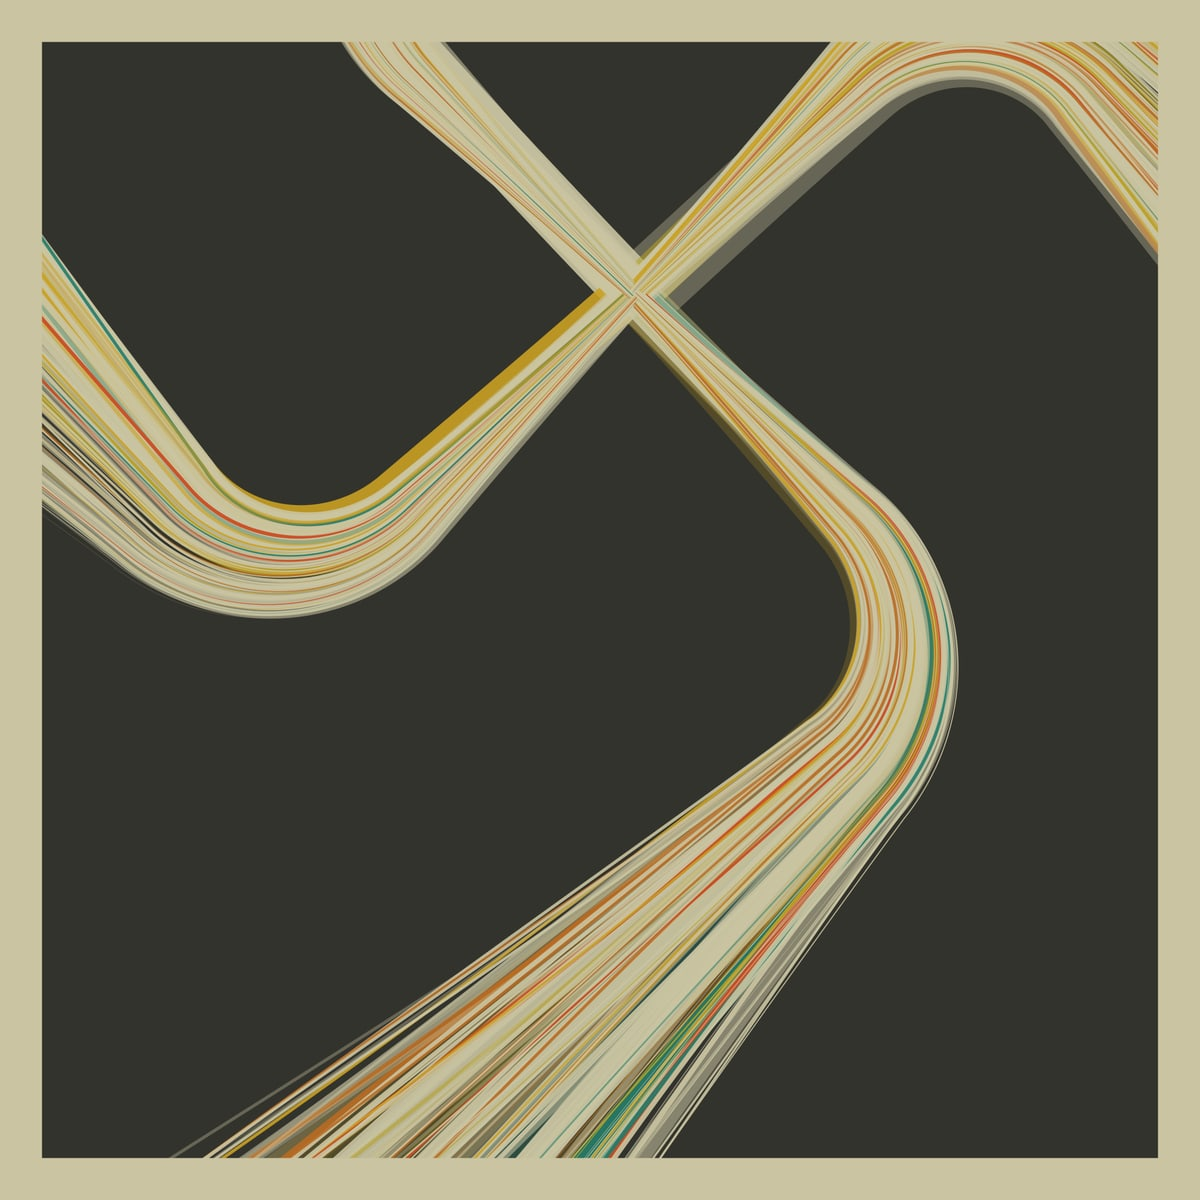
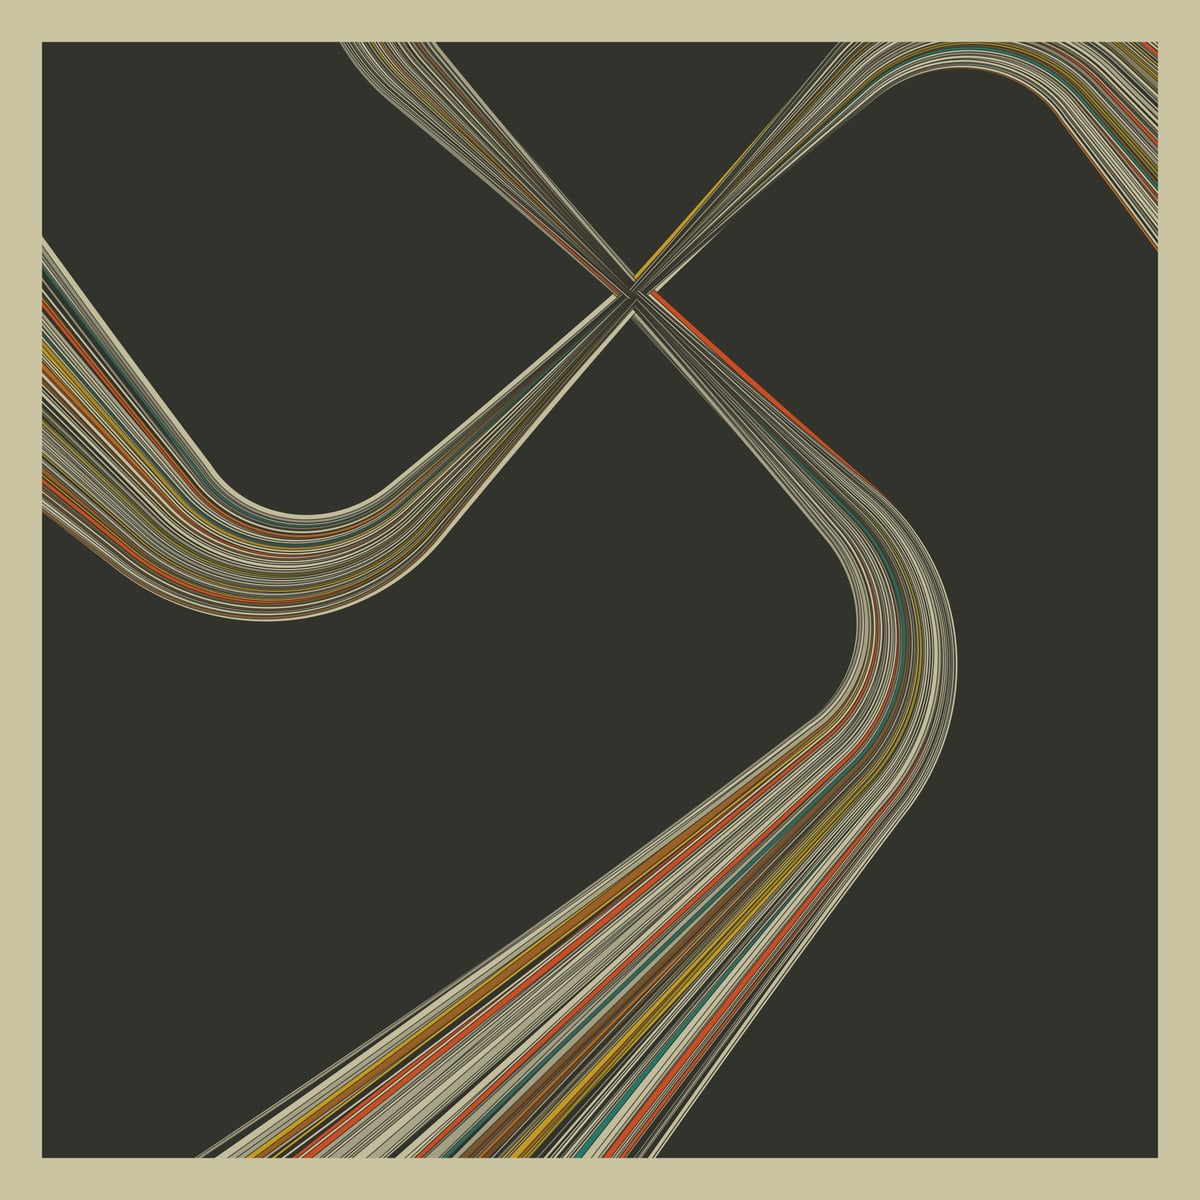
Echo fragments round five: distinct bundle lines, centre-heavy bubbles, negative-space cross
A: fewer, keylined lines with less sway and a higher opacity floor.
C: reverse the size law so bubbles aggregate large at the centre.
G: the cross becomes a feathered void no mark enters, cropped close;
swirls mix flow-field strokes with dotted bubble-chamber spiral tracks.
Drop F.

Claude-Session: https://claude.ai/code/session_01SD2JjdLN4H7LaTYECa3YfT

Changed region(s): [[0.0308, 0.0308, 0.9867, 0.9867]]

diff --git a/art/gart/src/main/kotlin/tgs/echo/FlowPieces.kt b/art/gart/src/main/kotlin/tgs/echo/FlowPieces.kt
@@ -4,9 +4,11 @@ import dev.oblac.gart.Dimension
 import dev.oblac.gart.color.RetroColors
 import dev.oblac.gart.gfx.drawBorder
 import org.jetbrains.skia.Canvas
+import org.jetbrains.skia.ClipMode
 import org.jetbrains.skia.PaintStrokeCap
 import org.jetbrains.skia.Path
 import org.jetbrains.skia.PathBuilder
+import tgs.fill
 import tgs.stroke
 import tgs.withAlpha
 import kotlin.math.PI
@@ -21,6 +23,7 @@ import kotlin.random.Random
 private val ink = RetroColors.black01
 private val paper = RetroColors.white01
 private val red = RetroColors.red01
+private val sage = 0xFF8A9A6B.toInt()
 
 private fun mix(a: Int, b: Int, t: Float): Int {
     val u = t.coerceIn(0f, 1f)
@@ -28,46 +31,82 @@ private fun mix(a: Int, b: Int, t: Float): Int {
     return (0xFF shl 24) or ch(16) or ch(8) or ch(0)
 }
 
+/** Each law's colour family; t picks a point along it. */
+private fun lawColor(law: Law, t: Float) = when (law) {
+    Law.EXPONENTIAL -> mix(RetroColors.orange01, red, t)
+    Law.HYPERBOLIC -> mix(RetroColors.teal01, RetroColors.blue01, t)
+    Law.PARABOLIC -> mix(RetroColors.yellow01, RetroColors.amber01, t)
+    Law.LOGISTIC -> mix(sage, paper, t)
+}
+
 /**
- * G · FOUR LAWS, FLOWFORCE — after gart's flowforce/flowforce3. A white hooked cross,
- * turned 45° and set off-centre, made of a bundle of fine white lines. Round it, a flow
- * field (swirl about the cross's centre, plus a push away from its arms) carries a few
- * thousand swirls. Each swirl's own turn grows along its length by one of FOUR laws,
- * and the law sets its colour family:
- *   EXPONENTIAL  orange → vermilion   curls ever tighter
- *   HYPERBOLIC   teal → blue          runs nearly straight, then whips into a knot
- *   PARABOLIC    mustard → amber      bends steadily more
- *   LOGISTIC     sage → cream         turns, then straightens out at its ceiling
- * Width and opacity are drawn from halving-odds (geometric) distributions: many fine
- * faint swirls, a few broad bright ones.
+ * G · FOUR LAWS, FLOWFORCE — after gart's flowforce/flowforce3, crossed with a bubble
+ * chamber photograph. A hooked cross, turned 45°, is never drawn: it is the NEGATIVE
+ * SPACE that no line enters. The crop is close and off-centre, so the crossing and parts
+ * of the arms are in frame but not all four hooks — the figure is implied by absence.
+ *
+ * Two kinds of mark fill the rest, each bending by a curvature that grows along its
+ * length under one of four laws (EXPONENTIAL, HYPERBOLIC, PARABOLIC, LOGISTIC), which
+ * also sets its colour family:
+ *  - flow swirls: long continuous strokes carried by a field that circles the cross and
+ *    slides along its edges, so the empty arms are outlined by the current;
+ *  - bubble-chamber tracks: dotted trails from a vertex, often in pairs that curl in
+ *    opposite senses, tightening into spirals as their curvature runs away — the
+ *    signature of a charged particle losing energy.
+ * Widths, dot sizes and opacities are drawn from halving-odds (geometric) distributions.
  */
 fun lawsField(c: Canvas, d: Dimension) {
     val w = d.w.toFloat()
     val sc = w / 2048f
     c.clear(ink)
-    val ox = w * 0.45f; val oy = w * 0.54f
-    val arms = fourArms(hookArm(run = w * 0.13f, bend = w * 0.08f, tail = w * 0.22f, n = 500))
+    // the figure is large and off-centre: crossing in frame, hooks mostly outside it
+    val ox = w * 0.40f; val oy = w * 0.58f
+    val arms = fourArms(hookArm(run = w * 0.30f, bend = w * 0.18f, tail = w * 0.60f, n = 700))
         .map { it.rotated(45f) }
         .map { l -> Line(FloatArray(l.n) { l.x[it] + ox }, FloatArray(l.n) { l.y[it] + oy }, l.tx, l.ty, l.s) }
 
-    // the field on a coarse grid, sampled bilinearly
+    // the void: a band along each arm, widening a little toward the tips. Only its core
+    // (CORE of the width) is a hard clip; marks stop short of the full band at a jittered
+    // distance, so the edge is feathered by the marks themselves, not cut.
+    fun halfBand(s: Float) = w * (0.034f + 0.022f * s)
+    val CORE = 0.62f
+    val voidPath = PathBuilder().apply {
+        for (a in arms) {
+            for (k in 0 until a.n) {
+                val hb = halfBand(a.s[k]) * CORE
+                val lx = a.x[k] + a.ty[k] * hb; val ly = a.y[k] - a.tx[k] * hb
+                if (k == 0) moveTo(lx, ly) else lineTo(lx, ly)
+            }
+            for (k in a.n - 1 downTo 0) {
+                val hb = halfBand(a.s[k]) * CORE
+                lineTo(a.x[k] - a.ty[k] * hb, a.y[k] + a.tx[k] * hb)
+            }
+            closePath()
+        }
+    }.detach()
+
+    // the field on a coarse grid: swirl about the centre, sliding along the arms' edges
     val G = 192; val gs = w / (G - 1)
     val fxA = FloatArray(G * G); val fyA = FloatArray(G * G)
+    val dA = FloatArray(G * G); val sA = FloatArray(G * G)
     for (gj in 0 until G) for (gi in 0 until G) {
         val px = gi * gs; val py = gj * gs
-        var best = Float.MAX_VALUE; var nx = 0f; var ny = 0f
+        var best = Float.MAX_VALUE; var nx = 0f; var ny = 0f; var tx = 0f; var ty = 0f
         for (a in arms) for (k in 0 until a.n step 2) {
             val dx = px - a.x[k]; val dy = py - a.y[k]
             val dd = dx * dx + dy * dy
-            if (dd < best) { best = dd; nx = dx; ny = dy }
+            if (dd < best) { best = dd; nx = dx; ny = dy; tx = a.tx[k]; ty = a.ty[k]; sA[gj * G + gi] = a.s[k] }
         }
         val dist = sqrt(best).coerceAtLeast(1f); nx /= dist; ny /= dist
-        val push = exp(-dist / (w * 0.035f))
+        dA[gj * G + gi] = dist
+        val edge = exp(-dist / (w * 0.06f))
         val rx = px - ox; val ry = py - oy; val r = hypot(rx, ry).coerceAtLeast(1f)
-        val swx = -ry / r; val swy = rx / r                      // swirl, the hooks' hand
+        val swx = -ry / r; val swy = rx / r
         val wx = sin(py * 0.004f / sc) * 0.25f; val wy = cos(px * 0.0032f / sc) * 0.25f
-        var vx = swx + rx / r * 0.25f + nx * push * 1.6f + wx
-        var vy = swy + ry / r * 0.25f + ny * push * 1.6f + wy
+        // near an arm: run along it (sign chosen to agree with the swirl) and lean outward
+        val sgn = if (tx * swx + ty * swy >= 0f) 1f else -1f
+        var vx = (swx + rx / r * 0.2f + wx) * (1 - edge) + (tx * sgn * 1.4f + nx * 0.5f) * edge
+        var vy = (swy + ry / r * 0.2f + wy) * (1 - edge) + (ty * sgn * 1.4f + ny * 0.5f) * edge
         val m = hypot(vx, vy).coerceAtLeast(1e-4f); vx /= m; vy /= m
         fxA[gj * G + gi] = vx; fyA[gj * G + gi] = vy
     }
@@ -79,65 +118,77 @@ fun lawsField(c: Canvas, d: Dimension) {
         return atan2(lerp2(fyA), lerp2(fxA))
     }
 
+    /** how far inside the feathered edge a point is: < 0 means "in the void". */
+    fun clearance(x: Float, y: Float, jitter: Float): Float {
+        val gi = (x / gs + 0.5f).toInt().coerceIn(0, G - 1); val gj = (y / gs + 0.5f).toInt().coerceIn(0, G - 1)
+        return dA[gj * G + gi] - halfBand(sA[gj * G + gi]) * jitter
+    }
+
     val rng = Random(1960)
     fun geo(max: Int): Int { var l = 0; while (l < max && rng.nextFloat() < 0.5f) l++; return l }
+    fun lawK(law: Law) = when (law) { Law.EXPONENTIAL -> 4f; Law.HYPERBOLIC -> 6f; Law.PARABOLIC -> 4f; Law.LOGISTIC -> 10f }
+
+    c.save()
+    c.clipPath(voidPath, ClipMode.DIFFERENCE, true)
+
+    // 1 · flow swirls
     class Swirl(val path: Path, val width: Float, val color: Int)
     val swirls = ArrayList<Swirl>()
-    val sage = 0xFF8A9A6B.toInt()
-    repeat(4200) {
+    repeat(3400) {
         var x = rng.nextFloat() * w; var y = rng.nextFloat() * w
         val law = Law.entries[rng.nextInt(4)]
-        val dir = if (rng.nextFloat() < 0.8f) 1f else -1f        // mostly with the hooks' hand
-        val tpos = rng.nextFloat()
-        val maxTurn: Float; val k: Float; val col: Int
-        when (law) {
-            Law.EXPONENTIAL -> { maxTurn = 4.5f * PI.toFloat(); k = 4f; col = mix(RetroColors.orange01, red, tpos) }
-            Law.HYPERBOLIC -> { maxTurn = 5.0f * PI.toFloat(); k = 6f; col = mix(RetroColors.teal01, RetroColors.blue01, tpos) }
-            Law.PARABOLIC -> { maxTurn = 2.5f * PI.toFloat(); k = 4f; col = mix(RetroColors.yellow01, RetroColors.amber01, tpos) }
-            Law.LOGISTIC -> { maxTurn = 1.6f * PI.toFloat(); k = 10f; col = mix(sage, paper, tpos) }
-        }
-        val steps = 160 + rng.nextInt(360)
-        val step = 2.4f * sc
+        val dir = if (rng.nextFloat() < 0.8f) 1f else -1f
+        val maxTurn = when (law) { Law.EXPONENTIAL -> 4.5f; Law.HYPERBOLIC -> 5f; Law.PARABOLIC -> 2.5f; Law.LOGISTIC -> 1.6f } * PI.toFloat()
+        val steps = 160 + rng.nextInt(360); val step = 2.4f * sc
+        val jit = 0.75f + rng.nextFloat() * 0.45f              // this swirl's stopping distance
+        if (clearance(x, y, jit) < 0f) return@repeat
         val pb = PathBuilder().moveTo(x, y)
         for (i in 1..steps) {
-            val th = angle(x, y) + dir * maxTurn * law.f(i / steps.toFloat(), k) * 0.6f
+            val th = angle(x, y) + dir * maxTurn * law.f(i / steps.toFloat(), lawK(law)) * 0.5f
             x += cos(th) * step; y += sin(th) * step
             if (x < -40 || y < -40 || x > w + 40 || y > w + 40) break
+            if (clearance(x, y, jit) < 0f) break               // it never enters the void
             pb.lineTo(x, y)
         }
-        val lvl = geo(5)
-        val width = 0.8f * sc * (1 shl lvl)                         // ×2 per class, each half as common
-        val alpha = (0.95f * Math.pow(0.6, geo(3).toDouble()).toFloat()) / (1f + lvl * 0.25f)
-        swirls += Swirl(pb.detach(), width, withAlpha(col, alpha))
+        val lvl = geo(4)
+        val alpha = (0.9f * Math.pow(0.6, geo(3).toDouble()).toFloat()) / (1f + lvl * 0.3f)
+        swirls += Swirl(pb.detach(), 0.8f * sc * (1 shl lvl), withAlpha(lawColor(law, rng.nextFloat()), alpha))
     }
-    swirls.sortByDescending { it.width }                            // broad washes first, hairlines on top
+    swirls.sortByDescending { it.width }
     for (s in swirls) c.drawPath(s.path, stroke(s.color, s.width).apply { strokeCap = PaintStrokeCap.ROUND })
 
-    // the white cross: a solid paper band along each arm, widening slightly toward the
-    // tips, then combed with fine lines (the gentle bundle) so it keeps the flow's grain
-    for (a in arms) {
-        val left = PathBuilder(); val right = ArrayList<FloatArray>()
-        for (kk in 0 until a.n) {
-            val hb = w * (0.022f + 0.022f * a.s[kk]) * 0.5f
-            val lx = a.x[kk] + a.ty[kk] * hb; val ly = a.y[kk] - a.tx[kk] * hb
-            if (kk == 0) left.moveTo(lx, ly) else left.lineTo(lx, ly)
-            right += floatArrayOf(a.x[kk] - a.ty[kk] * hb, a.y[kk] + a.tx[kk] * hb)
+    // 2 · bubble-chamber tracks: dotted, curling ever tighter, often in opposite pairs
+    repeat(260) {
+        val vx = rng.nextFloat() * w; val vy = rng.nextFloat() * w
+        val prongs = if (rng.nextFloat() < 0.55f) 2 else 1
+        val th0 = rng.nextFloat() * 2 * PI.toFloat()
+        val law = Law.entries[rng.nextInt(4)]
+        val dotR = 0.9f * sc * Math.pow(1.6, geo(3).toDouble()).toFloat()
+        val alpha = 0.95f * Math.pow(0.7, geo(2).toDouble()).toFloat()
+        val col = withAlpha(lawColor(law, rng.nextFloat()), alpha)
+        val len = (500 + rng.nextInt(1400)) * sc               // path length, px
+        val kEnd = 1f / ((3f + rng.nextFloat() * 6f) * sc)     // final curvature: a few px radius
+        for (p in 0 until prongs) {
+            var x = vx; var y = vy
+            var th = th0 + if (p == 1) (0.15f + rng.nextFloat() * 0.3f) else 0f
+            val sense = if (p == 0) 1f else -1f
+            val step = 1.0f * sc
+            val n = (len / step).toInt()
+            var since = 0f
+            for (i in 0 until n) {
+                val kap = 1f / (w * 0.6f) + kEnd * law.f(i / n.toFloat(), lawK(law))
+                th += sense * kap * step
+                x += cos(th) * step; y += sin(th) * step
+                since += step
+                if (since >= dotR * 2.6f) {
+                    // dots fade out over the feathered edge instead of stopping at a line
+                    val cl = clearance(x, y, 1f) / (halfBand(0.5f) * 0.4f)
+                    if (cl > 0f || rng.nextFloat() < 1f + cl) c.drawCircle(x, y, dotR, fill(col))
+                    since = 0f
+                }
+            }
         }
-        for (p in right.asReversed()) left.lineTo(p[0], p[1])
-        c.drawPath(left.closePath().detach(), tgs.fill(paper))
     }
-    val lines = 46
-    for (pass in 0..0) for (a in arms) for (i in 0 until lines) {
-        val u = i / (lines - 1f) - 0.5f
-        val pb = PathBuilder()
-        for (kk in 0 until a.n) {
-            val bw = w * (0.022f + 0.022f * a.s[kk])
-            val off = u * bw
-            val px = a.x[kk] - a.ty[kk] * off; val py = a.y[kk] + a.tx[kk] * off
-            if (kk == 0) pb.moveTo(px, py) else pb.lineTo(px, py)
-        }
-        val pen = stroke(withAlpha(if (i % 3 == 0) RetroColors.yellow01 else ink, 0.10f), 0.9f * sc)
-        c.drawPath(pb.detach(), pen)
-    }
+    c.restore()
     c.drawBorder(d, w * 0.035f, paper)
 }

diff --git a/art/gart/src/main/kotlin/tgs/echo/LinesPieces.kt b/art/gart/src/main/kotlin/tgs/echo/LinesPieces.kt
@@ -36,21 +36,21 @@ fun swingExponential(c: Canvas, d: Dimension) {
     val lRef = run + (PI / 2).toFloat() * bend + w * 0.40f              // where growth is "done"
     val arms = fourArms(arm)
 
-    val lines = 120
-    val reds = setOf(17, 71, 96)
+    val lines = 64
+    val reds = setOf(9, 38, 52)
     val rng = Random(1798)                          // Malthus's Essay
     // every line draws its own weight, opacity and colour, all from geometric laws:
     //  - weight level L with P(L) = ½^(L+1): each heavier class half as common, twice as wide
-    //    (×32 from the hairlines to the rare heavy strokes), on top of a ×1.015 drift
+    //    (×16 from the hairlines to the rare heavy strokes), on top of a ×1.015 drift
     //    across the bundle;
-    //  - opacity 0.9 · 0.62^m, the same halving-odds draw: mostly bright, a few ghosts;
+    //  - opacity 0.95 · 0.78^m, the same halving-odds draw: mostly bright, a few ghosts;
     //  - colour: cream mostly, with mustard, amber, orange and teal at falling odds.
     fun geo(max: Int): Int { var l = 0; while (l < max && rng.nextFloat() < 0.5f) l++; return l }
     val accents = listOf(RetroColors.yellow01, RetroColors.amber01, RetroColors.orange01, RetroColors.teal01)
     class Stroke(val arm: Int, val i: Int, val weight: Float, val color: Int, val phase: Float, val freq: Float)
     val strokes = ArrayList<Stroke>()
     for (ai in 0 until 4) for (i in 0 until lines) {
-        val lvl = geo(5)
+        val lvl = geo(4)
         val m = geo(3)
         val pickAcc = geo(4)
         val base = when {
@@ -58,8 +58,8 @@ fun swingExponential(c: Canvas, d: Dimension) {
             pickAcc == 0 || pickAcc == 1 -> paper
             else -> accents[(pickAcc - 2 + rng.nextInt(2)).coerceAtMost(accents.size - 1)]
         }
-        val alpha = if (i in reds) 0.95f else 0.9f * Math.pow(0.62, m.toDouble()).toFloat()
-        val weight = w * 0.00045f * (1 shl lvl) * Math.pow(1.015, i.toDouble()).toFloat() * (if (i in reds) 1.6f else 1f)
+        val alpha = if (i in reds) 1f else 0.95f * Math.pow(0.78, m.toDouble()).toFloat()
+        val weight = w * 0.0007f * (1 shl lvl) * Math.pow(1.015, i.toDouble()).toFloat() * (if (i in reds) 1.6f else 1f)
         strokes += Stroke(ai, i, weight, withAlpha(base, alpha), rng.nextFloat() * 6.283f, 5f + rng.nextFloat() * 4f)
     }
     strokes.sortByDescending { it.weight }            // heavy strokes underneath, hairlines on top
@@ -73,12 +73,15 @@ fun swingExponential(c: Canvas, d: Dimension) {
                 val sg = 1.4f * (1f - exp(-along / lRef / 1.4f))   // ≈ along/lRef, easing to 1.4 (no kink)
                 val bw = w * (0.010f + 0.50f * Law.EXPONENTIAL.f(sg, 2.4f))  // bundle width
                 // gentle's sway: each line drifts a little, more as the bundle widens
-                val sway = sin(sg * st.freq + st.phase + st.arm) * bw * 0.035f
+                val sway = sin(sg * st.freq + st.phase + st.arm) * bw * 0.010f
                 val off = u * bw + sway
                 val px = a.x[k] - a.ty[k] * off; val py = a.y[k] + a.tx[k] * off
                 if (k == 0) pb.moveTo(px, py) else pb.lineTo(px, py)
             }
-            drawPath(pb.detach(), stroke(st.color, st.weight))
+            // a dark keyline under each stroke separates it from its neighbours
+            val path = pb.detach()
+            drawPath(path, stroke(withAlpha(ink, 0.85f), st.weight + w * 0.0016f))
+            drawPath(path, stroke(st.color, st.weight))
         }
     }
     c.drawBorder(d, w * 0.035f, paper)

diff --git a/art/gart/src/main/kotlin/tgs/echo/BubblePieces.kt b/art/gart/src/main/kotlin/tgs/echo/BubblePieces.kt
@@ -64,9 +64,10 @@ private fun pack(
 
 /**
  * C · BUBBLES, EXPONENTIAL — after gart's bubbles gallery (Bubbles2, bubbub, BubbleStripe):
- * a relaxed, random circle packing in place of a halftone grid. Along each hooked arm
- * the largest bubble allowed grows EXPONENTIALLY, from 0.15% to 17% of the page — over
- * 100×, two orders of magnitude — and big bubbles carry a second, nested pack of
+ * a relaxed, random circle packing in place of a halftone grid. Read from the tips inward,
+ * the largest bubble allowed along each hooked arm grows EXPONENTIALLY, from 0.15% of
+ * the page at the tips to 17% at the centre, where they aggregate — over 100×, two
+ * orders of magnitude — and big bubbles carry a second, nested pack of
  * paper holes, a third order down. Off the arms the froth stays at the smallest size.
  * Colour steps once per doubling of radius (log₂ r), so the ramp counts the doublings.
  */
@@ -76,19 +77,19 @@ fun bubblesExponential(c: Canvas, d: Dimension) {
     val run = w * 0.30f; val bend = w * 0.18f; val tail = w * 1.2f
     val arm = hookArm(run = run, bend = bend, tail = tail, n = 700)
     val total = run + (PI / 2).toFloat() * bend + tail
-    val lRef = run + (PI / 2).toFloat() * bend + w * 0.34f
+    val lRef = run + (PI / 2).toFloat() * bend + w * 0.55f
     val arms = fourArms(arm)
 
     val rMin = w * 0.0015f; val rArm = w * 0.17f
     val ramp = listOf(ink, ink, 0xFF5C4A3A.toInt(), RetroColors.blue01, RetroColors.yellow01, RetroColors.orange01, red)
-    val fx = w * 0.30f; val fy = w * 0.28f; val half = w * 0.95f
+    val fx = w * 0.14f; val fy = w * 0.12f; val half = w * 0.95f
     val rng = Random(1838)
 
     // the field: tiny everywhere, exponentially larger along the arms
     fun target(x: Float, y: Float): Float {
         val nr = nearest(arms, x, y)
         val sg = min(nr.s * total / lRef, 1f)
-        val onArm = rMin * Math.pow((rArm / rMin).toDouble(), sg.toDouble()).toFloat()   // exponential in s
+        val onArm = rMin * Math.pow((rArm / rMin).toDouble(), (1f - sg).toDouble()).toFloat()   // exponential, largest at the centre
         val band = max(w * 0.025f, onArm * 1.15f)
         return if (nr.d < band) onArm else rMin * 1.6f
     }
@@ -103,7 +104,7 @@ fun bubblesExponential(c: Canvas, d: Dimension) {
             seed = all.toList(), target = ::target)
         all += got
     }
-    c.fragment(d, rotDeg = 45f, zoom = 0.78f, fx = fx, fy = fy) {
+    c.fragment(d, rotDeg = 45f, zoom = 0.85f, fx = fx, fy = fy) {
         for (b in all) {
             val oct = (ln(b.r / rMin) / ln(2f)).toInt().coerceIn(0, ramp.size - 1)
             drawCircle(b.x, b.y, b.r, fill(ramp[oct]))

diff --git a/art/gart/src/main/kotlin/tgs/RenderAll.kt b/art/gart/src/main/kotlin/tgs/RenderAll.kt
@@ -5,7 +5,6 @@ import dev.oblac.gart.Dimension
 import dev.oblac.gart.fx.downsample
 import dev.oblac.gart.fx.supersampled
 import org.jetbrains.skia.Canvas
-import tgs.echo.flipHyperbolic
 import tgs.echo.bubblesExponential
 import tgs.echo.lawsField
 import tgs.echo.swingExponential
@@ -28,7 +27,6 @@ val pieces: List<Piece> = listOf(
     // echo fragments — flagged series, see tgs/echo/Fragments.kt
     Piece("echo-a-swing-exponential", ss = 2, draw = ::swingExponential),
     Piece("echo-c-bubbles-exponential", ss = 2, draw = ::bubblesExponential),
-    Piece("echo-f-flip-hyperbolic", ss = 2, draw = ::flipHyperbolic),
     Piece("echo-g-four-laws-flowforce", draw = ::lawsField),
 )
 

diff --git a/art/gart/README.md b/art/gart/README.md
@@ -15,21 +15,20 @@ mid-century palettes anchored on red / white / black.
 | `partition` | rects | countable (quadtree ×4, size halves per 130 px) | mirror, 8-way |
 | `ugunskrusts-field` | flowforce | felt (speed and weight grow with radius) | **rotation, 4-way: flagged deliberate echo** |
 
-### Echo fragments (rounds two to four, all flagged)
+### Echo fragments (rounds two to five, all flagged)
 
-Built on a four-armed hooked figure (`tgs/echo/`), turned 45°. The arms follow
-historical growth laws (`Law` in `Fragments.kt`: exponential, logistic, hyperbolic,
-plus parabolic as a foil), and stroke widths, sizes or colormaps scale geometrically.
+Built on a four-armed hooked figure (`tgs/echo/`), turned 45° and cropped so the frame
+never holds the whole emblem. The arms follow historical growth laws (`Law` in
+`Fragments.kt`: exponential, logistic, hyperbolic, plus parabolic as a foil), and
+stroke widths, sizes or colormaps scale geometrically.
 
 | Piece | After gart | Growth law | Geometric scaling |
 |---|---|---|---|
-| `echo-a-swing-exponential` | lines, circledots/gentle | exponential bundle width | per-line weight ×2 per class at ½ odds; opacity ×0.62; colour odds |
-| `echo-c-bubbles-exponential` | bubbles (Bubbles2, BubbleStripe) | exponential bubble size, ×100+ | colour per radius doubling; nested holes |
-| `echo-f-flip-hyperbolic` | retro, bubbles/holes, cell/rugae | hyperbolic front + Ising agreement on C4 orbits | disc size ×2^−¼ per disagreeing neighbour; colour by log₂ age |
-| `echo-g-four-laws-flowforce` | flowforce/flowforce3 | exp / hyperbolic / parabolic / logistic swirls | width ×2 per class at ½ odds; opacity ×0.6 |
+| `echo-a-swing-exponential` (finalist) | lines, circledots/gentle | exponential bundle width | per-line weight ×2 per class at ½ odds; opacity ×0.78; keylined |
+| `echo-c-bubbles-exponential` | bubbles (Bubbles2, BubbleStripe) | exponential bubble size, small at the tips → ×100+ at the centre | colour per radius doubling; nested holes |
+| `echo-g-four-laws-flowforce` | flowforce/flowforce3 + bubble chamber | swirls and dotted tracks curving by exp / hyperbolic / parabolic / logistic laws | width ×2 per class at ½ odds; dot size ×1.6 |
 
-`echo-g` is the most literal: a complete white 45° cross. It is a study, not a site
-asset, unless cropped.
+In `echo-g` the cross is never drawn: it is a soft-edged void that no mark enters.
 
 `previews/` holds committed 1200 px JPEGs. The 2048 px masters in `renders/` are
 gitignored: every piece is seeded and deterministic, so they rebuild exactly.
